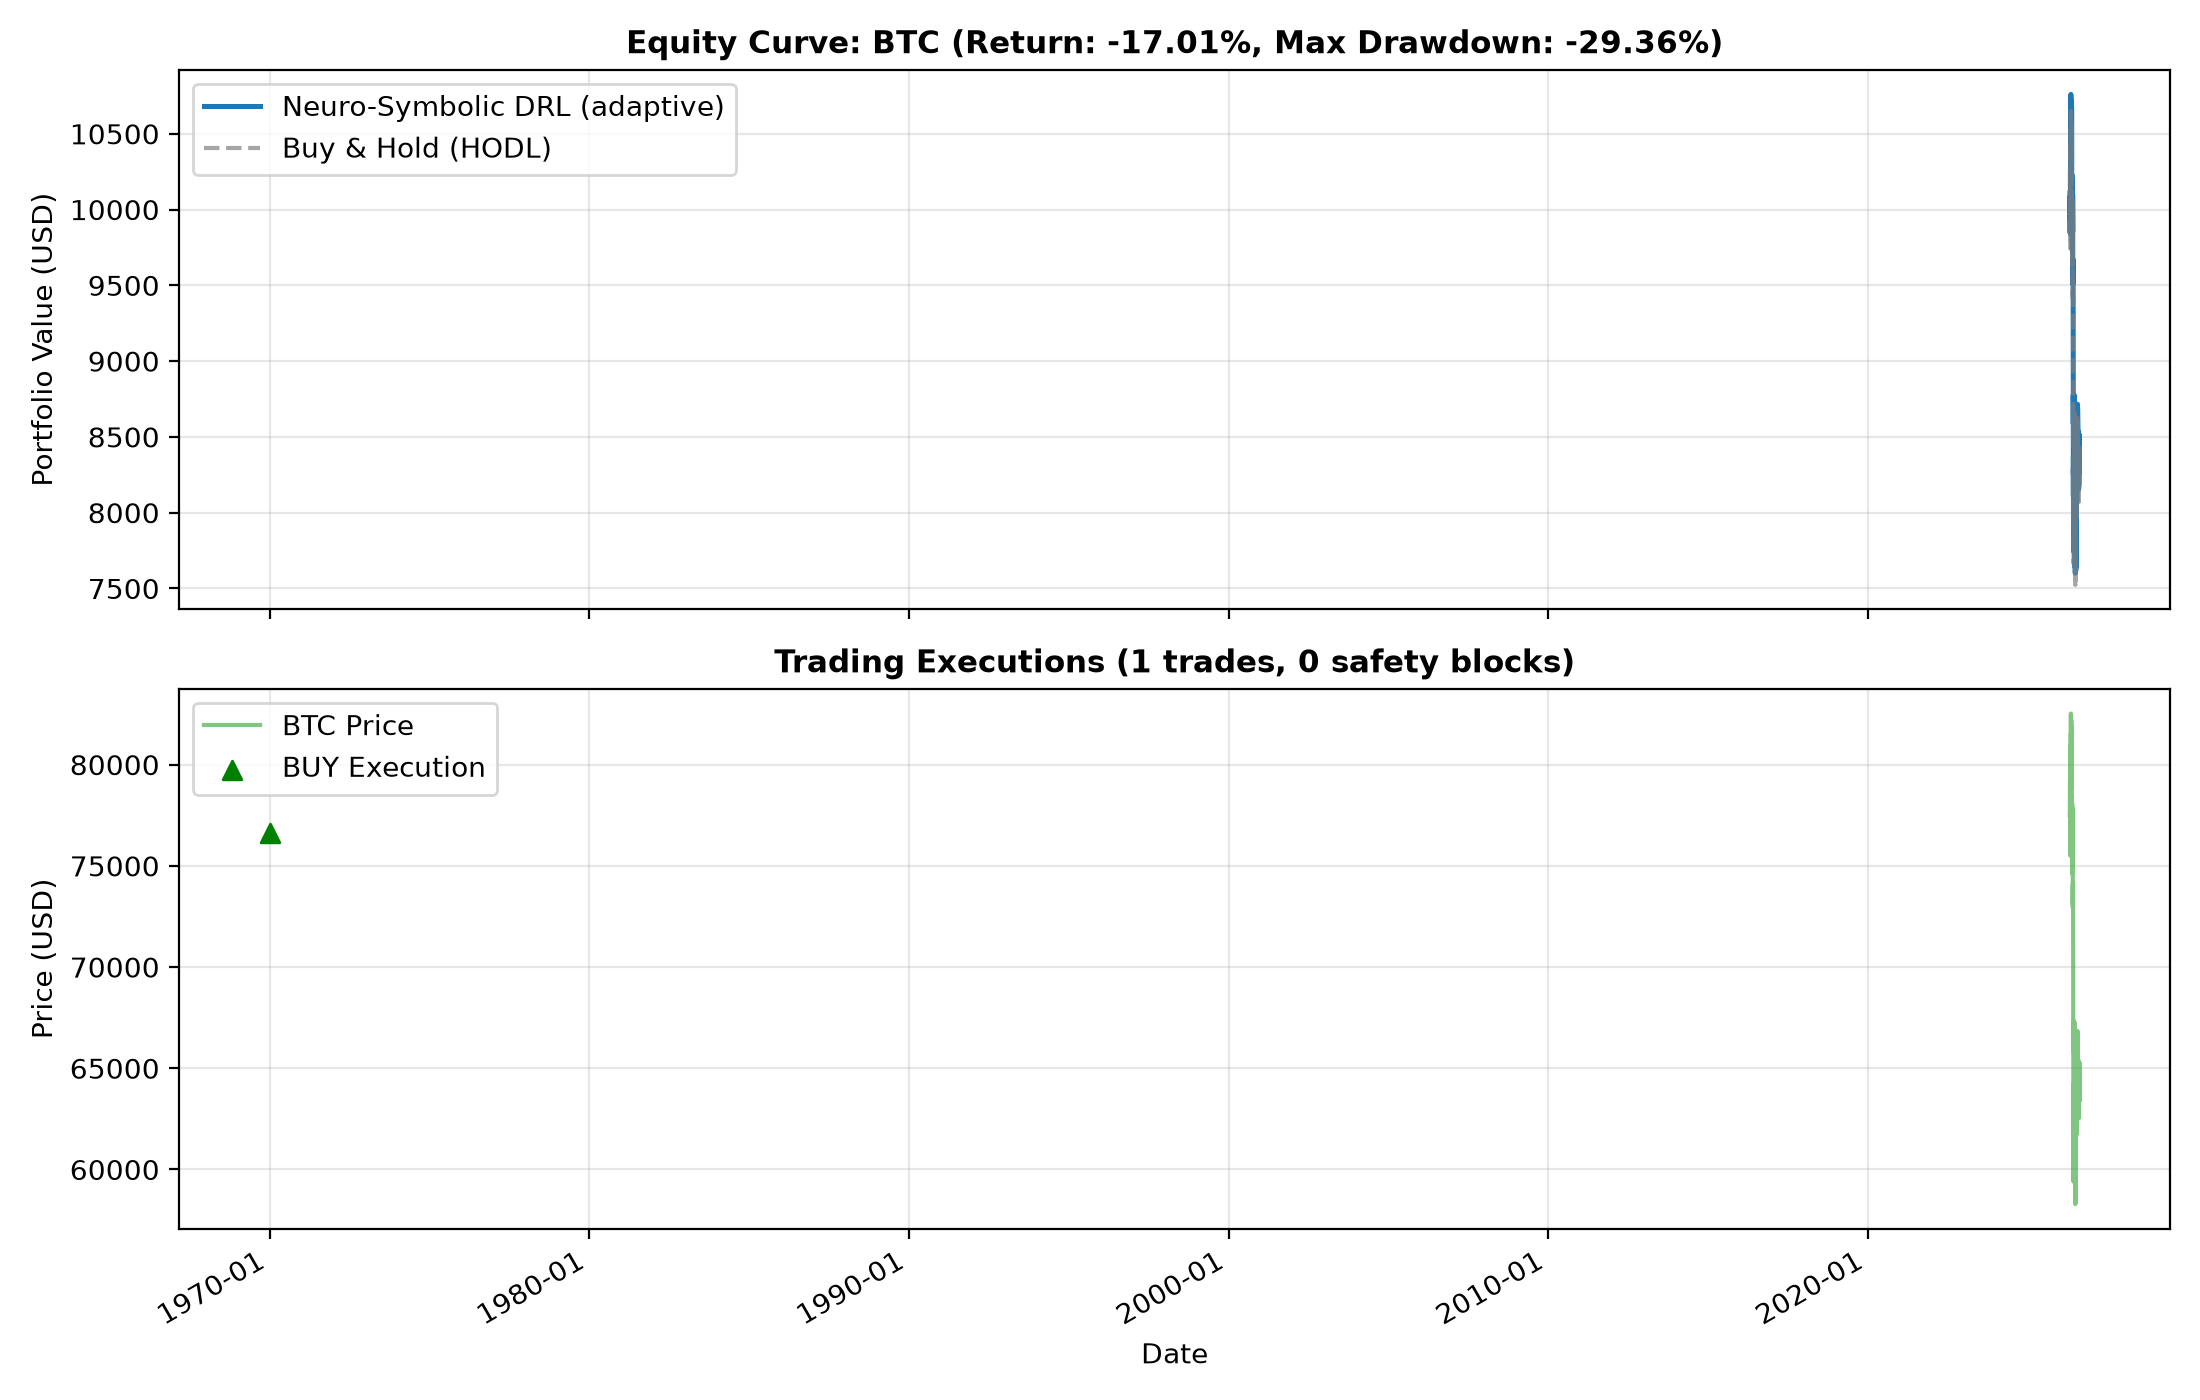
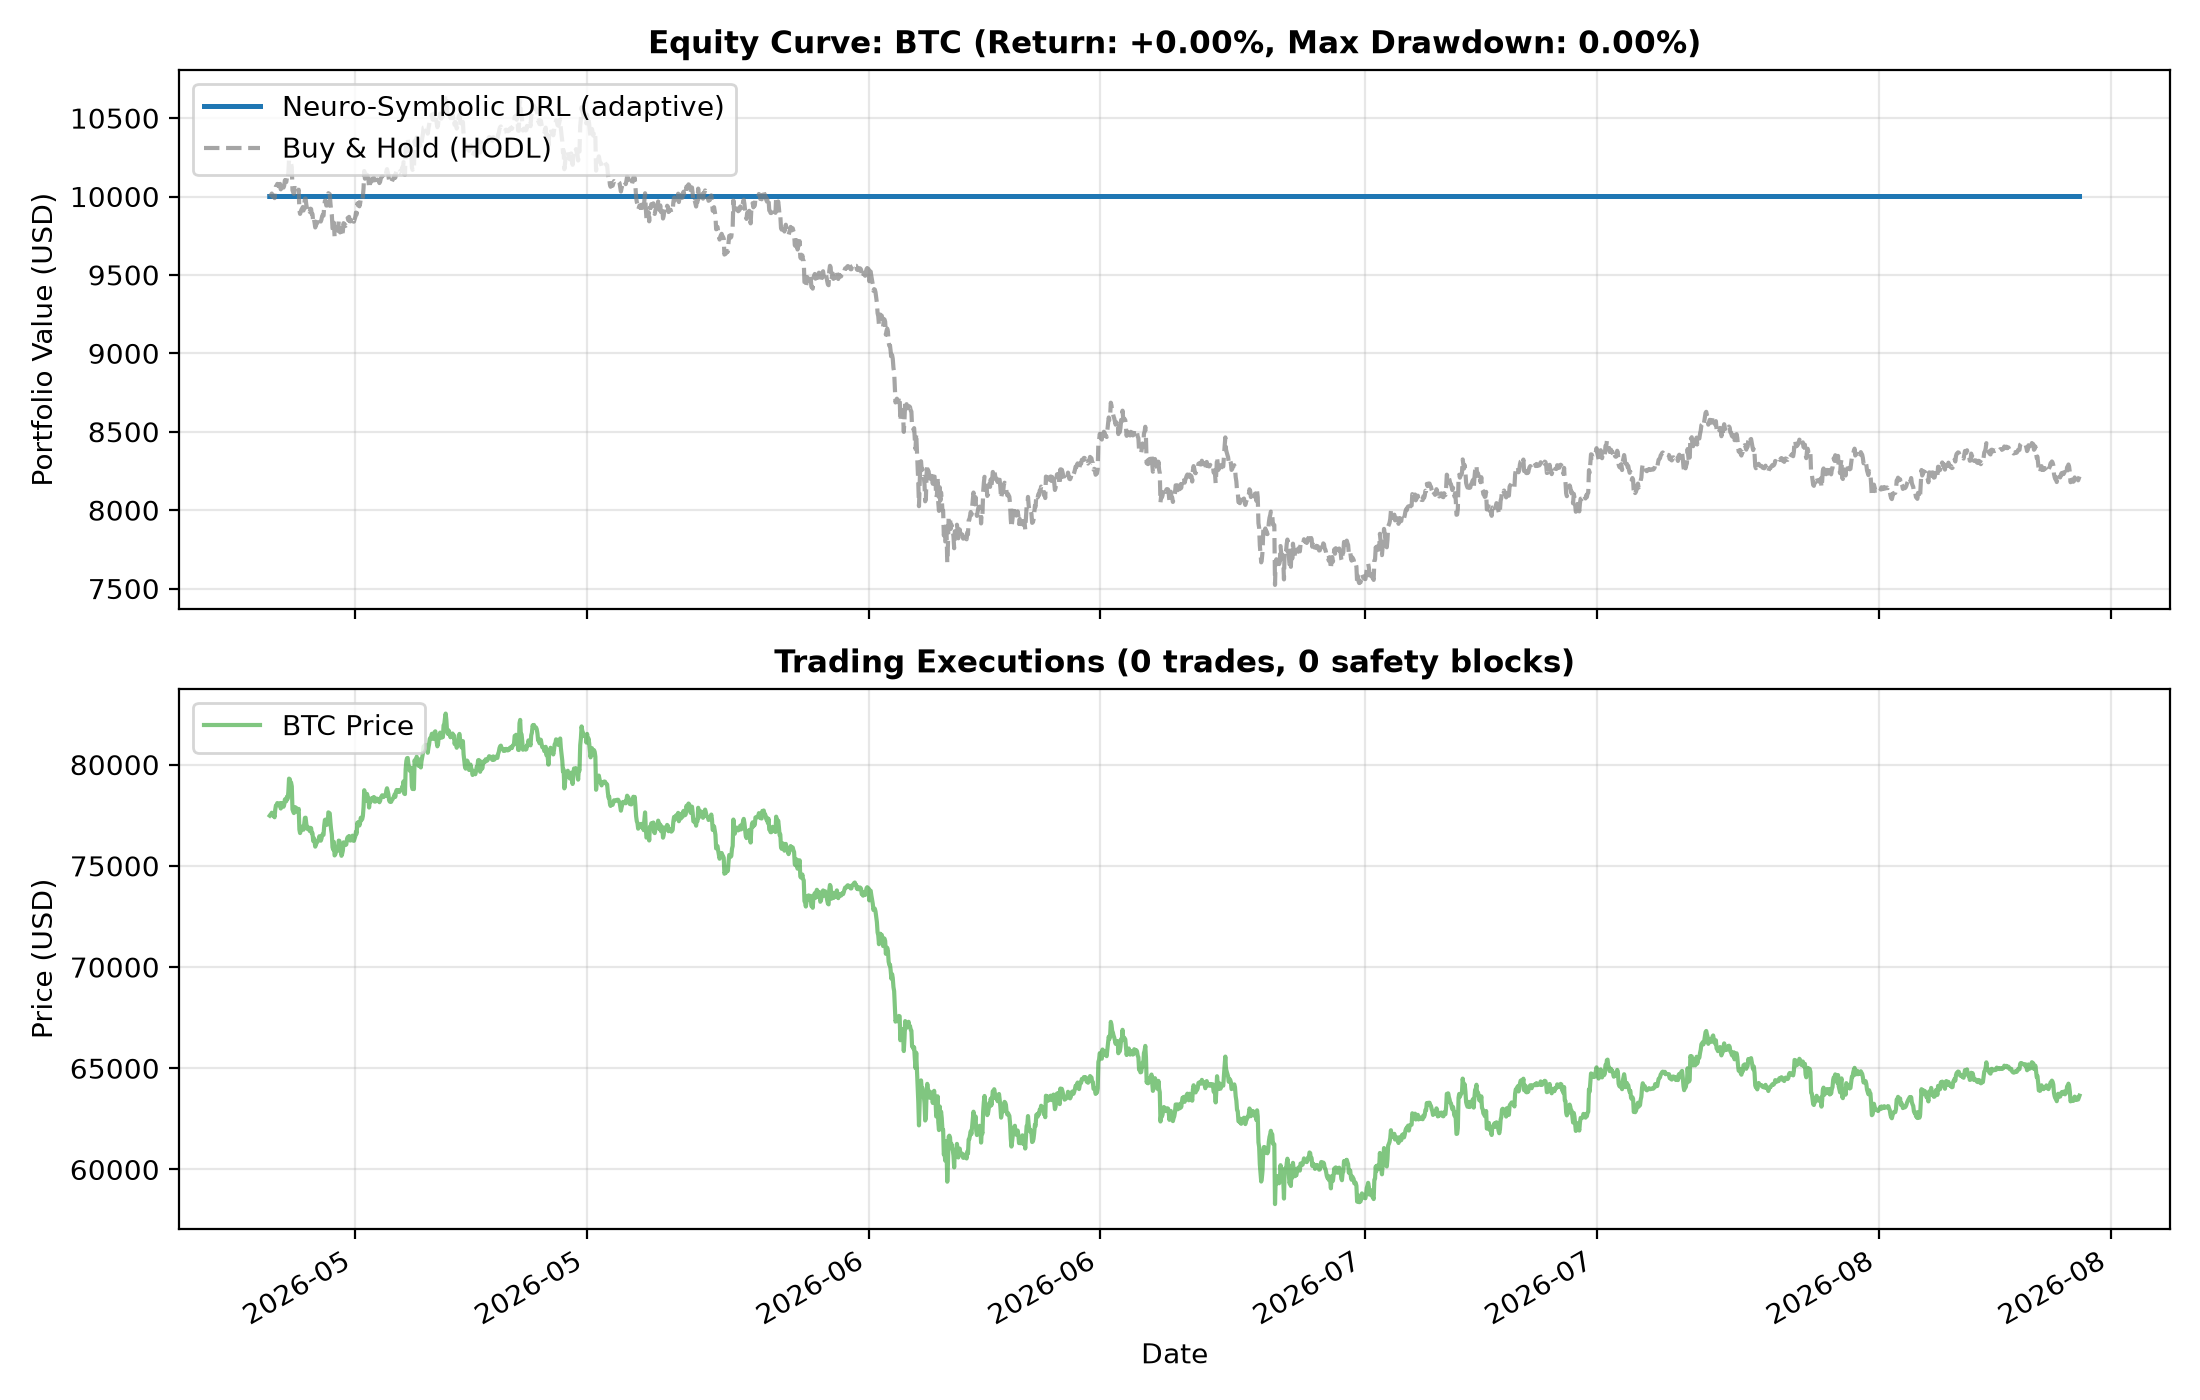
refactor: update DQN hyperparameters, enforce CPU device for model loading, and refine gitignore and performance result tracking.

diff --git a/final_results/table5_paper.tex b/final_results/table5_paper.tex
@@ -3,14 +3,14 @@
 \toprule
 Asset & Strategy & Return (%) & Sharpe & Sortino & Max Drawdown & Trades & Safety Blocks & t-stat (vs Base) & p-val (vs Base) & Significant (p<0.05) \\
 \midrule
-BTC & Neuro-Symbolic DRL & -17.01% & -1.4452 & -1.4139 & -29.36% & 1 & 0 & 0.802 & 0.4225 & NO \\
-BTC & Pure Baseline DRL & -18.59% & -1.6007 & -1.5720 & -29.36% & 1 & 0 & - & - & - \\
-BTC & Buy & Hold (HODL) & -17.85% & -1.5215 & -1.4977 & -29.36% & 1 & 0 & 0.407 & 0.6840 & NO \\
-ETH & Neuro-Symbolic DRL & -18.83% & -1.1401 & -1.1177 & -36.90% & 1 & 0 & 0.670 & 0.5030 & NO \\
-ETH & Pure Baseline DRL & -20.35% & -1.2569 & -1.2304 & -36.90% & 1 & 0 & - & - & - \\
-ETH & Buy & Hold (HODL) & -18.40% & -1.0953 & -1.0753 & -36.90% & 1 & 0 & -0.193 & 0.8469 & NO \\
-XRP & Neuro-Symbolic DRL & -29.17% & -2.1220 & -2.0897 & -35.26% & 1 & 0 & -0.298 & 0.7659 & NO \\
-XRP & Pure Baseline DRL & -29.06% & -2.1109 & -2.0820 & -35.26% & 1 & 0 & - & - & - \\
-XRP & Buy & Hold (HODL) & -28.93% & -2.0982 & -2.0688 & -35.26% & 1 & 0 & -0.651 & 0.5152 & NO \\
+BTC & Neuro-Symbolic DRL & +0.00% & 0.0000 & 0.0000 & 0.00% & 0 & 0 & nan & nan & NO \\
+BTC & Pure Baseline DRL & +0.00% & 0.0000 & 0.0000 & 0.00% & 0 & 0 & - & - & - \\
+BTC & Buy & Hold (HODL) & -17.85% & -1.5215 & -1.4977 & -29.36% & 1 & 0 & 0.833 & 0.4052 & NO \\
+ETH & Neuro-Symbolic DRL & -20.16% & -1.2416 & -1.2145 & -36.90% & 1 & 0 & -0.870 & 0.3844 & NO \\
+ETH & Pure Baseline DRL & -11.05% & -0.6286 & -0.5358 & -28.73% & 1 & 0 & - & - & - \\
+ETH & Buy & Hold (HODL) & -18.40% & -1.0953 & -1.0753 & -36.90% & 1 & 0 & -1.860 & 0.0629 & NO \\
+XRP & Neuro-Symbolic DRL & -28.98% & -2.1032 & -2.0721 & -35.26% & 1 & 3 & 0.088 & 0.9300 & NO \\
+XRP & Pure Baseline DRL & -29.00% & -2.1051 & -2.0763 & -35.26% & 1 & 0 & - & - & - \\
+XRP & Buy & Hold (HODL) & -28.93% & -2.0982 & -2.0688 & -35.26% & 1 & 0 & -0.227 & 0.8205 & NO \\
 \bottomrule
 \end{tabular}

diff --git a/run_test.py b/run_test.py
@@ -57,14 +57,15 @@ def run_single_backtest(symbol: str = 'btc', scenario: str = 'adaptive', algo: s
     model = None
     if os.path.exists(model_path):
         try:
+            # Force CPU device to avoid GPU/CPU mismatch when model was trained on CUDA
             if algo_lower in ['dqn', 'ddqn']:
-                model = DQN.load(model_path)
+                model = DQN.load(model_path, device='cpu')
             elif algo_lower == 'ppo':
-                model = PPO.load(model_path)
+                model = PPO.load(model_path, device='cpu')
             elif algo_lower == 'sac':
-                model = SAC.load(model_path)
+                model = SAC.load(model_path, device='cpu')
             else:
-                model = DQN.load(model_path)
+                model = DQN.load(model_path, device='cpu')
         except Exception:
             model = None
 

diff --git a/train_dqn.py b/train_dqn.py
@@ -53,15 +53,16 @@ def train_dqn(symbol: str = 'btc', scenario: str = 'adaptive', timesteps: int = 
     model_dqn = DQN(
         "MlpPolicy",
         env,
-        learning_rate=5e-5,
+        learning_rate=1e-4,
         buffer_size=100000,
-        learning_starts=1000,
+        learning_starts=500,
         batch_size=64,
         gamma=0.99,
         target_update_interval=500,
-        exploration_fraction=0.4,
-        exploration_final_eps=0.05,
-        policy_kwargs=dict(net_arch=[256, 256, 128]),
+        exploration_fraction=0.6,
+        exploration_final_eps=0.10,
+        policy_kwargs=dict(net_arch=[128, 128]),
+        device='cpu',  # Consistent with backtest inference; avoids GPU/CPU mismatch
         verbose=0,
     )
 

diff --git a/final_results/table5_summary_results.md b/final_results/table5_summary_results.md
@@ -2,12 +2,12 @@
 
 | Asset   | Strategy           | Return (%)   |   Sharpe |   Sortino | Max Drawdown   |   Trades |   Safety Blocks | t-stat (vs Base)   | p-val (vs Base)   | Significant (p<0.05)   |
 |:--------|:-------------------|:-------------|---------:|----------:|:---------------|---------:|----------------:|:-------------------|:------------------|:-----------------------|
-| BTC     | Neuro-Symbolic DRL | -17.01%      |  -1.4452 |   -1.4139 | -29.36%        |        1 |               0 | 0.802              | 0.4225            | NO                     |
-| BTC     | Pure Baseline DRL  | -18.59%      |  -1.6007 |   -1.572  | -29.36%        |        1 |               0 | -                  | -                 | -                      |
-| BTC     | Buy & Hold (HODL)  | -17.85%      |  -1.5215 |   -1.4977 | -29.36%        |        1 |               0 | 0.407              | 0.6840            | NO                     |
-| ETH     | Neuro-Symbolic DRL | -18.83%      |  -1.1401 |   -1.1177 | -36.90%        |        1 |               0 | 0.670              | 0.5030            | NO                     |
-| ETH     | Pure Baseline DRL  | -20.35%      |  -1.2569 |   -1.2304 | -36.90%        |        1 |               0 | -                  | -                 | -                      |
-| ETH     | Buy & Hold (HODL)  | -18.40%      |  -1.0953 |   -1.0753 | -36.90%        |        1 |               0 | -0.193             | 0.8469            | NO                     |
-| XRP     | Neuro-Symbolic DRL | -29.17%      |  -2.122  |   -2.0897 | -35.26%        |        1 |               0 | -0.298             | 0.7659            | NO                     |
-| XRP     | Pure Baseline DRL  | -29.06%      |  -2.1109 |   -2.082  | -35.26%        |        1 |               0 | -                  | -                 | -                      |
-| XRP     | Buy & Hold (HODL)  | -28.93%      |  -2.0982 |   -2.0688 | -35.26%        |        1 |               0 | -0.651             | 0.5152            | NO                     |
+| BTC     | Neuro-Symbolic DRL | +0.00%       |   0      |    0      | 0.00%          |        0 |               0 | nan                | nan               | NO                     |
+| BTC     | Pure Baseline DRL  | +0.00%       |   0      |    0      | 0.00%          |        0 |               0 | -                  | -                 | -                      |
+| BTC     | Buy & Hold (HODL)  | -17.85%      |  -1.5215 |   -1.4977 | -29.36%        |        1 |               0 | 0.833              | 0.4052            | NO                     |
+| ETH     | Neuro-Symbolic DRL | -20.16%      |  -1.2416 |   -1.2145 | -36.90%        |        1 |               0 | -0.870             | 0.3844            | NO                     |
+| ETH     | Pure Baseline DRL  | -11.05%      |  -0.6286 |   -0.5358 | -28.73%        |        1 |               0 | -                  | -                 | -                      |
+| ETH     | Buy & Hold (HODL)  | -18.40%      |  -1.0953 |   -1.0753 | -36.90%        |        1 |               0 | -1.860             | 0.0629            | NO                     |
+| XRP     | Neuro-Symbolic DRL | -28.98%      |  -2.1032 |   -2.0721 | -35.26%        |        1 |               3 | 0.088              | 0.9300            | NO                     |
+| XRP     | Pure Baseline DRL  | -29.00%      |  -2.1051 |   -2.0763 | -35.26%        |        1 |               0 | -                  | -                 | -                      |
+| XRP     | Buy & Hold (HODL)  | -28.93%      |  -2.0982 |   -2.0688 | -35.26%        |        1 |               0 | -0.227             | 0.8205            | NO                     |
